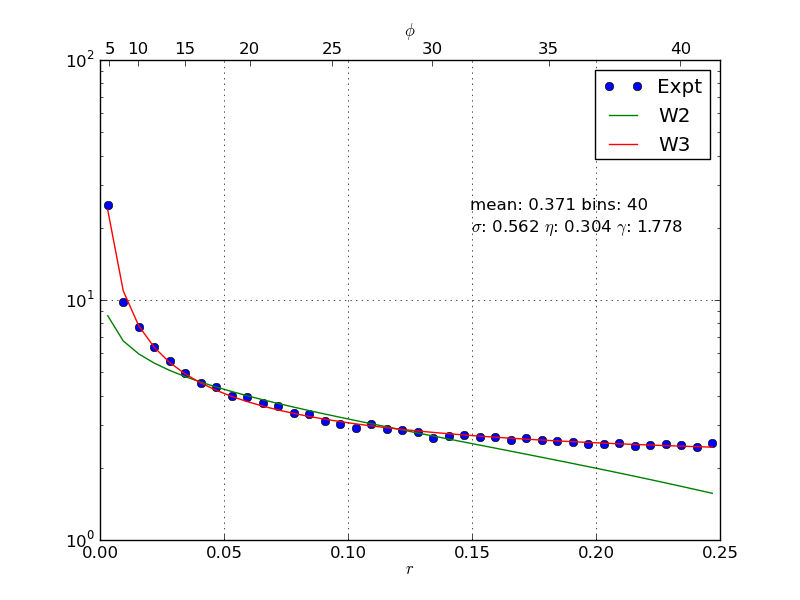
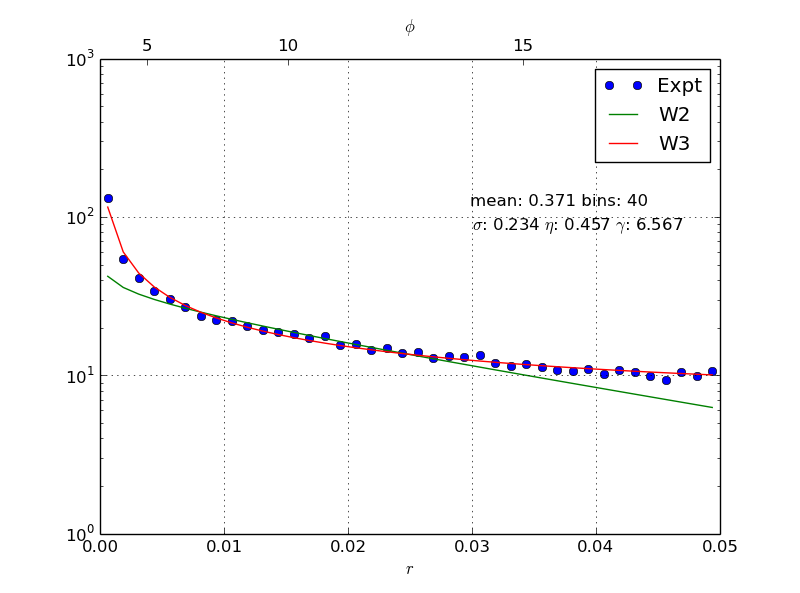
More Figures

diff --git a/runws.py b/runws.py
@@ -11,11 +11,11 @@ from scipy.optimize import leastsq
 
 # -- BEGIN PARAMETERS ----
 bins = 40
-rangemax = 0.25
+rangemax = 0.05
 #namebase = '1110_3d_snp9'
 #namebase = '1200_3d_snp5_img' 
-namebase = '524_3d_snp1_img'
-#namebase = '524_3d_snp2_img'
+#namebase = '524_3d_snp1_img'
+namebase = '524_3d_snp2_img'
 #namebase = '524_3d_snp3_img'
 #namebase = '556_3d_snp5_img'
 #namebase = '556_3d_snp6_img'
